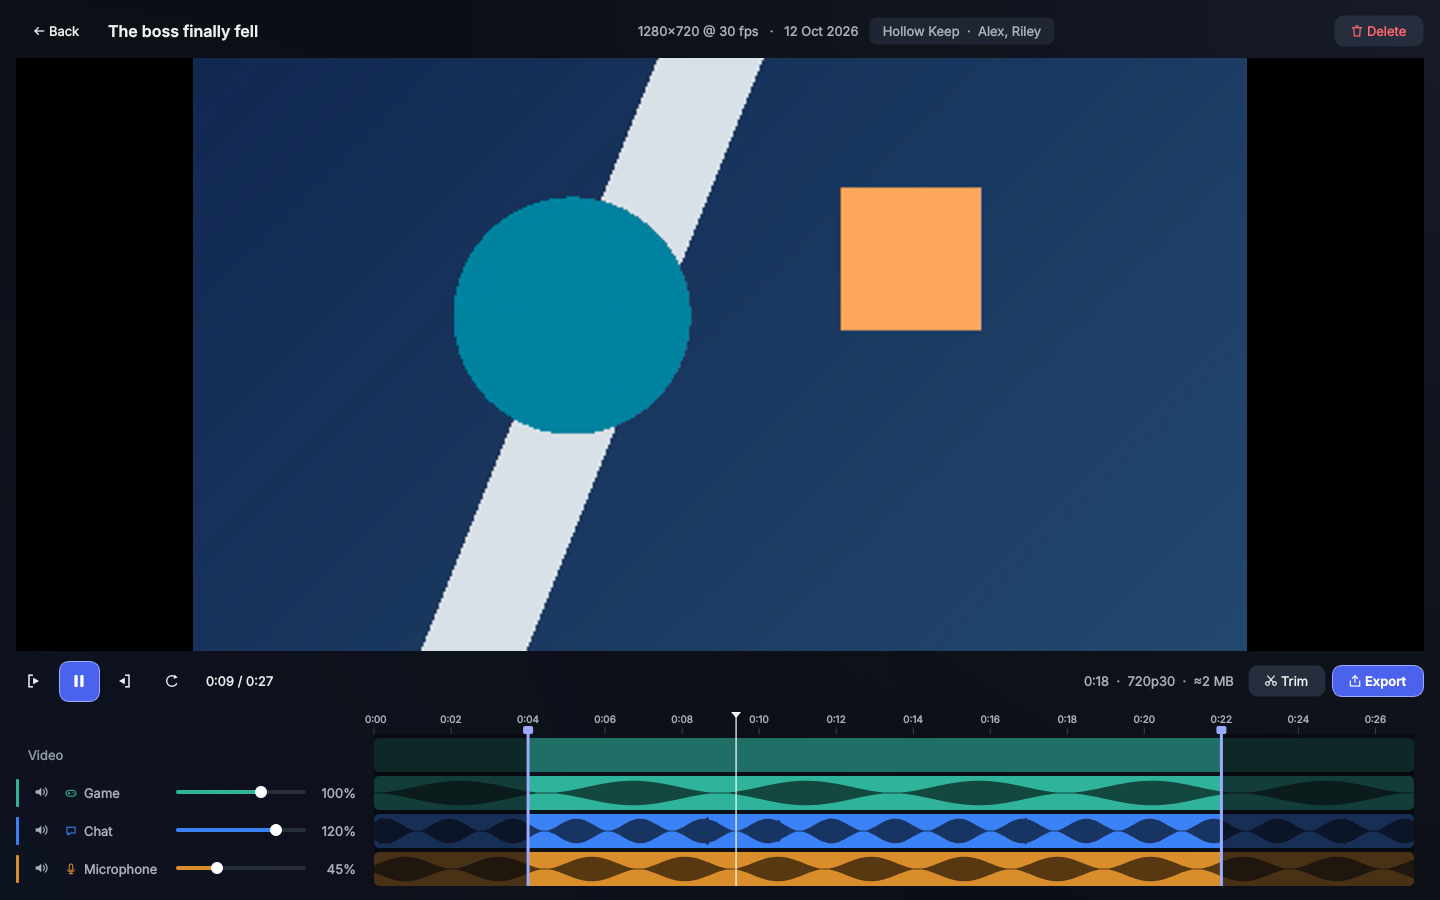
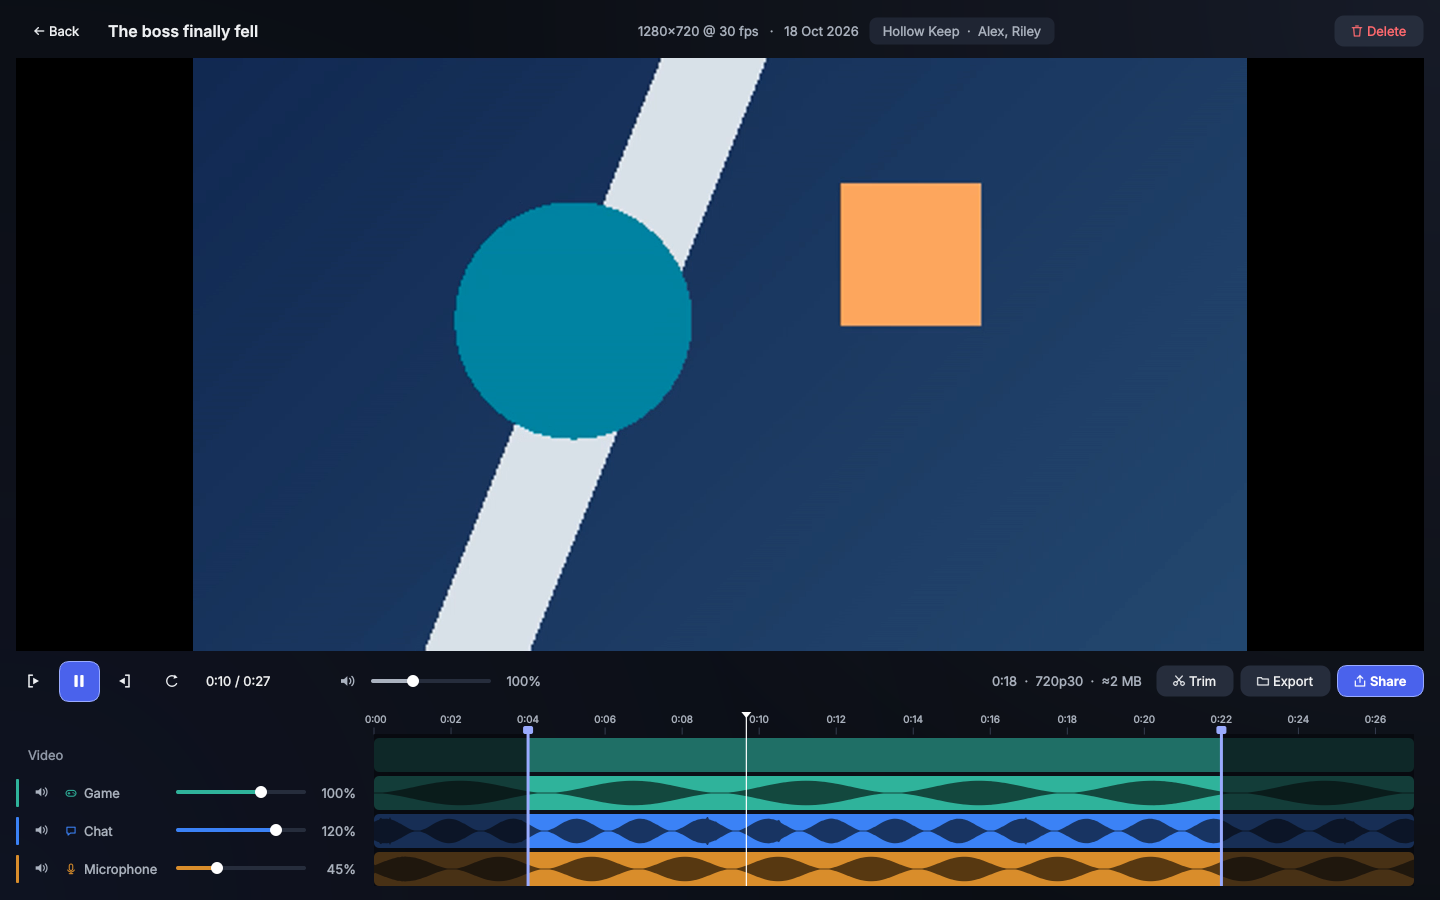
README, changelog and screenshots for the ported changes
Claude-Session: https://claude.ai/code/session_01NhVUfyKvQZr2dAF8p6ZzPN

diff --git a/CHANGELOG.md b/CHANGELOG.md
@@ -22,6 +22,26 @@ added.
 - Editor: frame stepping, Shift-seek, I/O and Home/End keys, full screen.
 - Track names read from MP4 boxes when the installed ffprobe can't see them.
 - Packaging with `pyproject.toml` (installable with pipx), tests and CI.
+- Teaching Vertex a clip app's file names, in setup and in Settings › Import
+  and setup: presets for Medal, SteelSeries Moments, NVIDIA ShadowPlay, Xbox
+  Game Bar, OBS, AMD Adrenalin and GPU Screen Recorder, or a name marked up
+  by hand, with a preview of what Vertex reads from your clips. Several
+  apps can be listed, tried in turn; a game ending in a number keeps it
+  (Medal's "Helldivers2" + date is Helldivers 2).
+- Under the apps, what reading the clips' names again would change, one
+  ticked line per game (old → new, opening to its clips), applied at once.
+- Importing clips reads the folders inside the chosen one too (Moments and
+  Medal keep a folder per game), with a list to leave folders out.
+- A Media track, recording Sonar's Media channel. Setup picks each track's
+  device too.
+- A playback volume in the editor, 0–300%, kept between clips; the clip, its
+  mix and exports stay as they are.
+- Renaming a game from the library's games menu (right-click, or F2): its
+  clips are retagged, merging into a game you already have, and new clips
+  get the new name too, also when tagged from the Game channel. Settings ›
+  Import and setup lists the renames.
+- `vertex doctor` names the Python Vertex runs on, and a failed thumbnail
+  logs ffmpeg's error.
 
 ### Changed
 - UI rebuilt on Qt 6 (PySide6). Runs natively on Wayland; video renders through
@@ -29,6 +49,8 @@ added.
 - The library grid is a virtualised list view; thumbnails load on demand.
 - `.mkv` clips are listed alongside `.mp4`.
 - Clips named `Replay_…` are no longer tagged *Desktop* automatically.
+- Enter in a confirmation takes what it asks for (Delete, Apply), not Cancel.
+- Settings' folder fields show the real default clips and exports folders.
 - Library schema is versioned (`PRAGMA user_version`); 1.x libraries upgrade in
   place.
 

diff --git a/README.md b/README.md
@@ -80,7 +80,8 @@ telemetry and no account.
 </p>
 
 All your clips with previews. Filter by game, person or favorites, search,
-tag and rename.
+tag and rename. A game with a wrong name is renamed from the games menu
+(right-click it): its clips are retagged, and new clips get the new name too.
 
 ## Editor and export
 
@@ -91,7 +92,8 @@ tag and rename.
 </tr>
 </table>
 
-A volume slider per audio track and trimming without quality loss. Share
+A volume slider per audio track, a playback volume (up to 300%, only for
+watching), and trimming without quality loss. Share
 sizes the clip for Discord and copies it, ready to paste or drag into a chat;
 Export saves it in your Exports folder.
 
@@ -113,8 +115,8 @@ their channel, and a priority list picks your headset and mic.
 </tr>
 </table>
 
-GPU Screen Recorder keeps the last minute or two. Game, chat and mic are
-saved as separate tracks. Notifications can show over games.
+GPU Screen Recorder keeps the last minute or two. Game, chat, media and mic
+are saved as separate tracks. Notifications can show over games.
 
 ## Settings
 
@@ -127,7 +129,8 @@ from Moments or Medal (including the folder per game, leaving out any folder
 you untick), and resets. Vertex reads the game and the date from clip names:
 add each app that recorded them (Medal, ShadowPlay, Xbox Game Bar, OBS and
 more), or mark up one of your own names to teach it. A name the first app
-can't read goes to the next.
+can't read goes to the next, and Vertex lists what reading your clips' names
+again would change, for you to apply.
 
 ---
 
